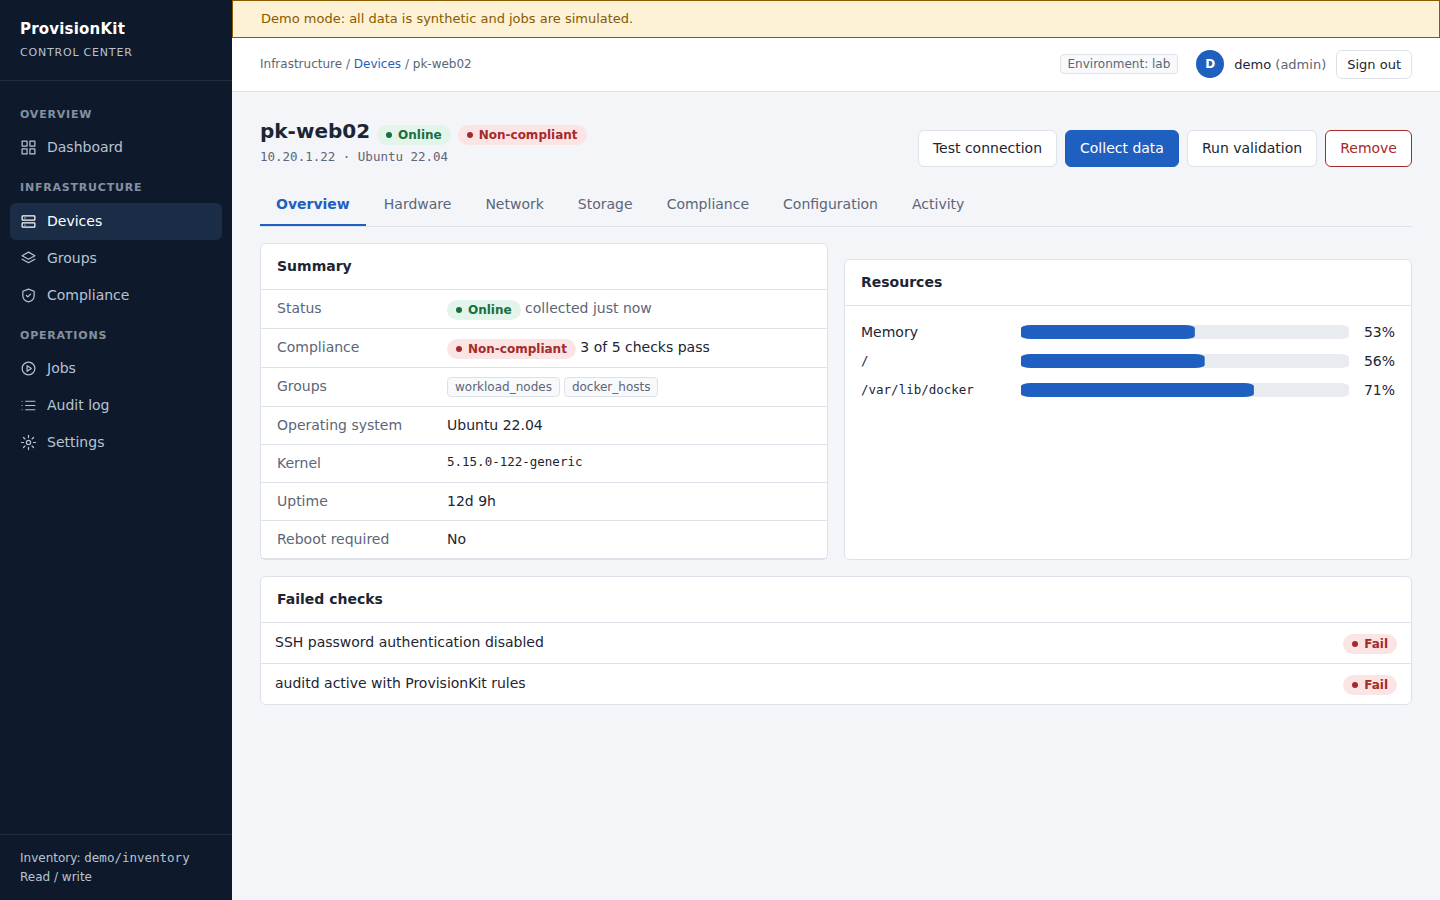
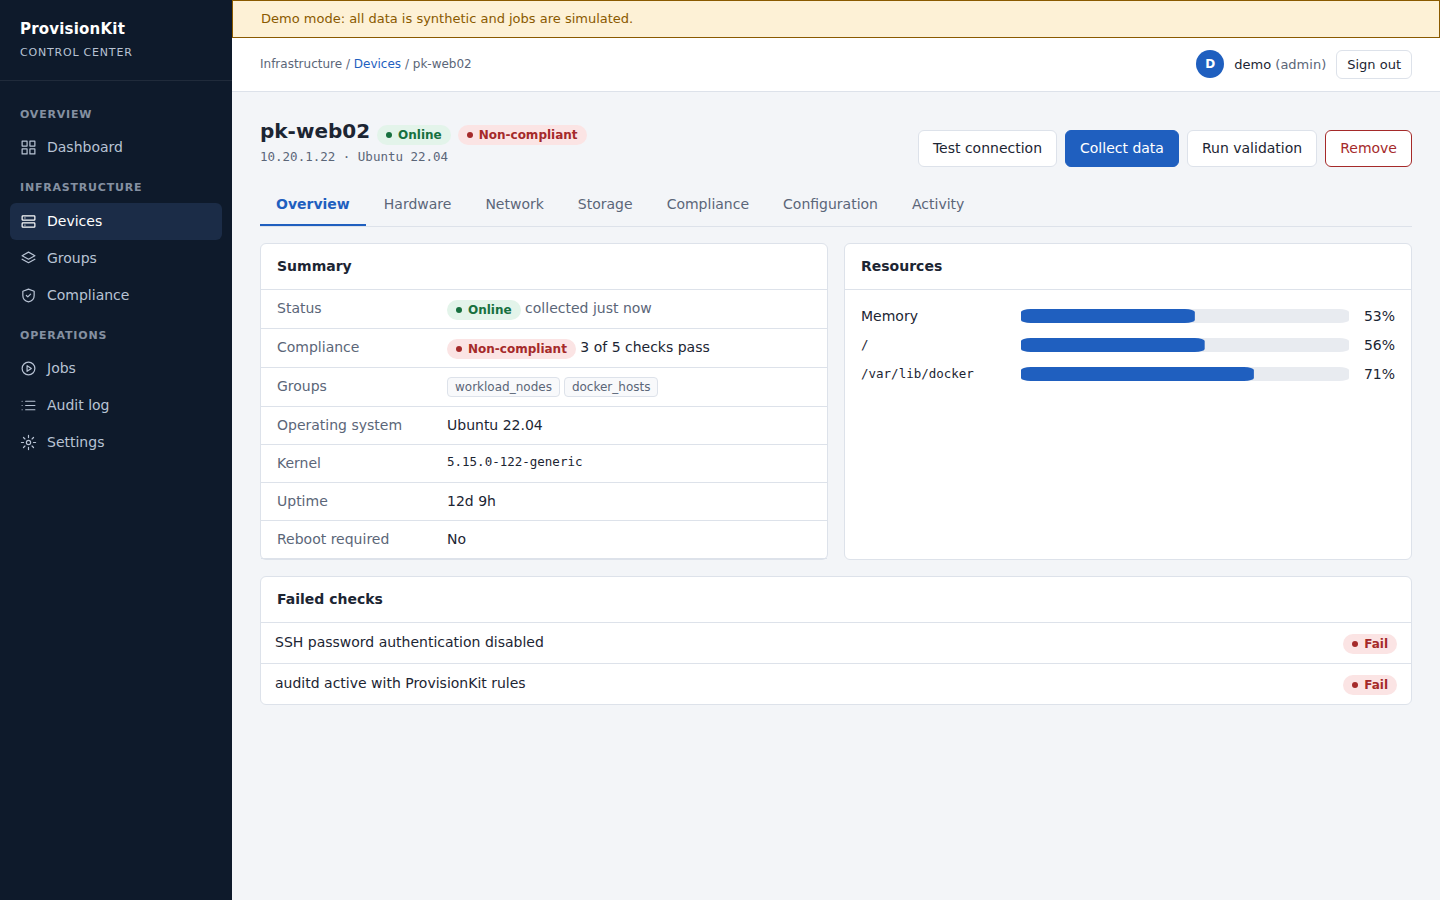
Panel: fix job failure under the service unit, remove two labels
- Ansible's ssh control path defaults to ~/.ansible/cp regardless of
  ANSIBLE_HOME, which ProtectHome=read-only blocks ("Cannot write to
  ControlPath"). Point ANSIBLE_SSH_CONTROL_PATH_DIR at a short
  RuntimeDirectory under /run (also stays under the socket path limit).
- Remove the "Environment: ..." tag and the inventory footer from the UI;
  the inventory path stays on the admin Settings page.
- Fix card spacing rule that misaligned dashboard grid cards.
- Regenerate README screenshots.

diff --git a/panel/templates/base.html b/panel/templates/base.html
@@ -27,13 +27,11 @@
       {{ item('main.audit_log', 'audit', 'Audit log', 'list', ('operator','admin')) }}
       {{ item('main.settings', 'settings', 'Settings', 'gear', ('admin',)) }}
     </nav>
-    <footer>Inventory: <span class="mono">{{ inv.dir.parent.name }}/{{ inv.dir.name }}</span><br>{% if inv.is_example %}Read-only example{% elif inv.writable %}Read / write{% else %}Read-only{% endif %}</footer>
   </aside>
   <div class="main">
     {% if demo %}<div class="banner" role="status">Demo mode: all data is synthetic and jobs are simulated.</div>{% endif %}
     <header class="topbar">
       <div class="grow"><div class="crumbs">{% block crumbs %}Console{% endblock %}</div></div>
-      {% if env_name %}<span class="tag">Environment: {{ env_name }}</span>{% endif %}
       {% if g.user %}<div class="user">
         <span class="avatar" aria-hidden="true">{{ g.user['username'][:1]|upper }}</span>
         <span>{{ g.user['username'] }} <span class="muted">({{ g.user['role'] }})</span></span>

diff --git a/panel/static/app.css b/panel/static/app.css
@@ -143,4 +143,4 @@ fieldset { border: 0; padding: 0; margin: 0 0 16px; }
 td a b, .tag { white-space: nowrap; }
 td:first-child { white-space: nowrap; }
 .matrix th { white-space: normal; vertical-align: bottom; }
-.card + .card { margin-top: 16px; }
+.content > .card + .card { margin-top: 16px; }

diff --git a/panel/__init__.py b/panel/__init__.py
@@ -35,7 +35,7 @@ def create_app(overrides=None):
     def inject():
         return {"csrf_token": auth.csrf_token, "inv": app.config["INVENTORY"], "demo": app.config["DEMO"],
                 "ago": fleet.ago, "uptime": fleet.humanize_uptime, "group_info": GROUP_INFO,
-                "env_name": _env_name(app), "now": time.time()}
+                "now": time.time()}
 
     app.add_template_filter(lambda t: time.strftime("%Y-%m-%d %H:%M:%S", time.gmtime(t)), "timestamp")
 
@@ -60,13 +60,6 @@ def create_app(overrides=None):
     for code, title in ((400, "Bad request"), (403, "Access denied"), (404, "Not found"), (413, "Request too large")):
         app.register_error_handler(code, lambda e, c=code, t=title: error_page(e, c, t))
     return app
-
-
-def _env_name(app):
-    try:
-        return app.config["INVENTORY"].raw_vars().get("provisionkit_environment", "")
-    except OSError:
-        return ""
 
 
 def _secret_key(app):
